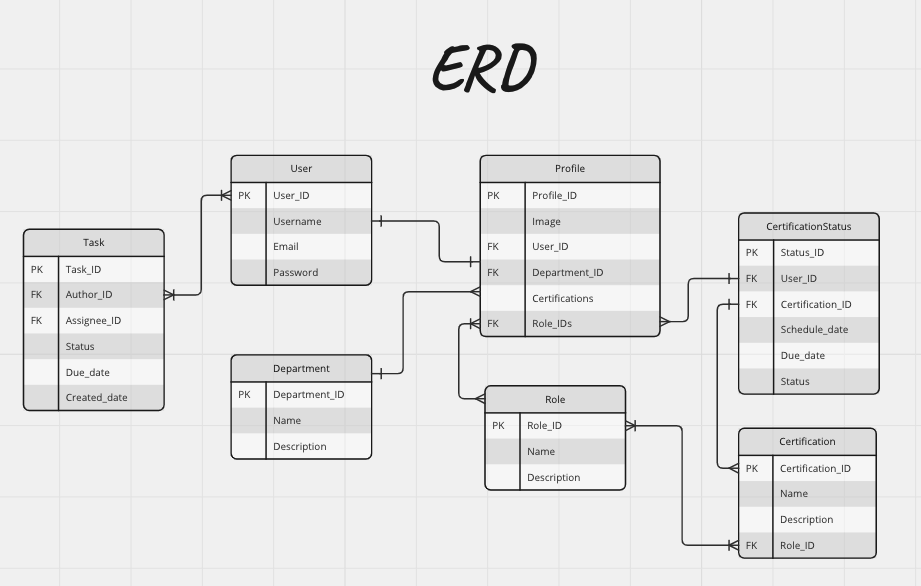
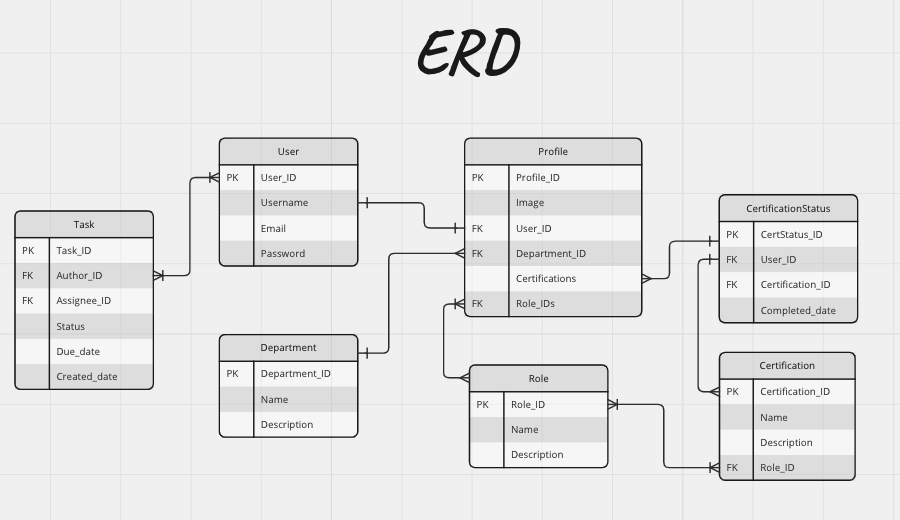
deleted status from model

diff --git a/training/templates/training/dashboard.html b/training/templates/training/dashboard.html
@@ -49,21 +49,20 @@
                             </div>
                             {%endif%}
                             {% if cert.id %}
-                                <a href="{% url 'training-statusCertification-detail' cert.id %}" class="d-flex justify-content-center align-items-center text-{% if cert.status == 'Completed' or cert.status == 'Scheduled' %}success{% elif cert.status == 'About To Expired' %}warning{% else %}danger{% endif %}">
+                                <a href="{% url 'training-statusCertification-detail' cert.id %}" class="d-flex justify-content-center align-items-center text-dark">
                                 
-                                {% if cert.status == 'Completed' %}
-                                
+                                    {% now "Y-m-d" as current_datetime %}
+                                    {% if cert.completed_date|date:"Y-m-d" and current_datetime <= cert.completed_date|date:"Y-m-d"  %}
+                                    {{cert.completed_date|date:'n/j/Y'}}
+                                    {% endif %}
                                     {% if cert.expiration_date %}
                                         <p class="text-warning">{{ cert.expiration_date|timeuntil }}</p>
                                         
                                     {% else %}
-                                        <p>{{cert.completed_date|date:'n/j/Y'}}</p>
-                                    {% endif %}
-                                {% else %}
                                     <div data-toggle="tooltip" data-placement="right" title="{% if cert.certification.scheduled_date %}Scheduled: {{ cert.certification.scheduled_date|date:'n/j' }}{% else %}Not Scheduled{% endif %}">
-                                        <p>{{ cert.status }}</p>
+                                        <p>{{ cert.completed_date|date:'n/j/Y' }}</p>
                                     </div>
-                                {% endif %}
+                                    {% endif %}
                                 </a>
                             {% endif %}
                         </td>

diff --git a/training/templates/training/home.html b/training/templates/training/home.html
@@ -17,10 +17,17 @@
 
 
         {% for certificate, form in formswithcert %}
-        <div id="accordion" class="mb-3 card {% if certificate.status == 'Completed' %}bg-success-light{% endif %}">
+        <div id="accordion" class="mb-3 card">
             <div class="card-header" id="headingOne">
                 <button  class="btn" data-toggle="collapse" data-target="#collapse{{ certificate.id }}" aria-expanded="true" aria-controls="collapseOne" style="font-size: 22px;">{{ certificate.certification.name }}
-                    <span class="badge badge-secondary">{{ certificate.status }}</span>
+                    <span class="badge badge-secondary">
+                        {% now "Y-m-d" as current_datetime %}
+                        {% if certificate.scheduled_date and current_datetime <= certificate.scheduled_date|date:"Y-m-d"  %}
+                        {{ certificate.scheduled_date|date:"Y-m-d" }}
+                        {% else %}
+                        {{ certificate.expiration_date|date:"Y-m-d" }}
+                        {% endif %}
+                    </span>
                 </button>
             </div>
             <div id="collapse{{ certificate.id }}" class="collapse" aria-labelledby="headingOne" data-parent="#accordion">

diff --git a/training/templates/training/all_trainings.html b/training/templates/training/all_trainings.html
@@ -17,7 +17,7 @@
 
 
         {% for certificate in certificates %}
-        <div id="accordion" class="mb-3 card {% if certificate.status == 'Completed' %}bg-success-light{% endif %}">
+        <div id="accordion" class="mb-3 card {% if certificate.expiration_date > now %}bg-success-light{% endif %}">
             <div class="card-header d-flex justify-content-between" id="headingOne">
                 <a class="text-dark" href="{% url 'training-certification-detail' certificate.id %}" >
                     <h5>

diff --git a/users/models.py b/users/models.py
@@ -47,9 +47,19 @@ class Profile(models.Model):
         return self.certifications.all()
     
     # wtire a function that returns the percentage of certifications completed
+    
     def get_certifications_percentage(self):
-        percentage = round(self.certificationstatus_set.filter(status='Completed').count() / (self.certifications.count() or 1) * 100)
-        return percentage if percentage != 0 else 0
+        # today = timezone.now().date()
+        # completed_certifications = 0
+        # # for certification in self.certifications.all():
+        # #     certification_status = self.certificationstatus_set.filter(certification=certification).first()
+        # #     certExp = certification_status.expiration_date()
+        # #     if certification_status and certExp >= today:
+        # #         completed_certifications += 1
+        # # total_certifications = self.certifications.count()
+        # # percentage = round(completed_certifications / (total_certifications or 1) * 100)
+        # return percentage if percentage != 0 else 0
+        return 0
 
     # function that returns all certification status
     def get_certification_status(self, certification):
@@ -58,7 +68,14 @@ class Profile(models.Model):
 
     # write a function that tells you if the user has all the certifications in status 'completed'
     def has_all_certifications_completed(self):
-        return self.certificationstatus_set.filter(status='Completed').count() == self.certifications.count()
+        # today = timezone.now().date()
+        # for certification in self.certifications.all():
+        #     certification_status = self.certificationstatus_set.filter(certification=certification).first()
+        #     if certification_status is None:
+        #         return False
+        #     if certification.exp_months and certification_status.completed_date + timezone.timedelta(days=certification.exp_months * 30) < today:
+        #         return False
+        return True
     
     # function that returns true if user birthday is today or timeuntil if is not today
     def birthday_today(self):

diff --git a/training/models.py b/training/models.py
@@ -24,15 +24,18 @@ class Certification(models.Model):
     def __str__(self):
         return f"{self.name}"
     
-    # profiles with this cert and their status
-    def get_incomplete_certification_statuses(self):
-        return CertificationStatus.objects.filter(certification=self, status__in=['To be Scheduled', 'Scheduled', 'Expired', 'About To Expired'])
+    # profiles with this cert 
+    def get_incomplete_certification_profiles(self):
+        today = timezone.now().date()
+        return Profile.objects.filter(certificationstatus__certification=self, 
+                                      certificationstatus__completed_date__isnull=True) \
+                              .exclude(certificationstatus__completed_date__gt=today) \
+                              .exclude(certificationstatus__expiration_date__gt=today)
 
 
 class CertificationStatus(models.Model):
     profile = models.ForeignKey(Profile, on_delete=models.CASCADE)
     certification = models.ForeignKey(Certification, on_delete=models.CASCADE)
-    status = models.CharField(max_length=50, choices=[('To be Scheduled', 'To be Scheduled'),('Scheduled', 'Scheduled'), ('Expired', 'Expired'), ('About To Expired', 'About To Expired'), ('Completed', 'Completed')], default='To be Scheduled')
     completed_date = models.DateField(null=True, blank=True)
     
 
@@ -60,7 +63,7 @@ class CertificationStatus(models.Model):
         user_email = self.profile.user.email
 
         subject = f'Schedule Updated: {self.certification.name} was scheduled'
-        message = f'Your certificate {self.certification.name} status is {self.status}. New training scheduled on {timezone.localtime(self.certification.scheduled_date)}.'
+        message = f'Your certificate {self.certification.name} is due. New training scheduled on {timezone.localtime(self.certification.scheduled_date)}.'
 
         try:
             send_mail(subject, message, email_user, [user_email], auth_user=email_user, auth_password=email_password)

diff --git a/training/views.py b/training/views.py
@@ -184,7 +184,6 @@ def send_reminder_email(request, certification_id):
     certStatuses = certification.get_incomplete_certification_statuses()
     for certStatus in certStatuses:
         certStatus.send_schedule_notification()
-        certStatus.status = 'Scheduled'
         certStatus.save()
     messages.success(request, f'Reminder emails have been sent for {certification.name} certificate!')
 
@@ -274,9 +273,7 @@ def upload_file(request):
                     # if completion_date is "R" make it empty and the status "To be Scheduled"
                     if completion_date == "R":
                         completion_date = None
-                        status = "To be Scheduled"
-                    else:
-                        status = "Completed"
+                    
                     if pd.notna(completion_date) or completion_date == None:  # Check if completion_date is not NaN
                         try:
                             # Retrieve the profile object using the username
@@ -295,13 +292,11 @@ def upload_file(request):
                             profile=profile,
                             certification=certification,
                             defaults={
-                                'status': status,
                                 'completed_date': completion_date
                             }
                         )
 
                         if not created:
-                            certification_status.status = status
                             certification_status.completed_date = completion_date
                             certification_status.save()
                         print(f'CertificationStatus object created for {profile} and {certification}')

diff --git a/tasks/tests.py b/tasks/tests.py
@@ -2,45 +2,6 @@ from django.test import TestCase
 from .models import Task
 
 # Create your tests here.
-# Create tests for tasks views
-def test_task_list_view(self):
-    response = self.client.get('/tasks/')
-    self.assertEqual(response.status_code, 200)
-    self.assertContains(response, 'Tasks')
-    self.assertTemplateUsed(response, 'tasks/task_list.html')
 
-def test_task_detail_view(self):
-    response = self.client.get('/tasks/1/')
-    no_response = self.client.get('/tasks/100000/')
-    self.assertEqual(response.status_code, 200)
-    self.assertEqual(no_response.status_code, 404)
-    self.assertContains(response, 'Task')
-    self.assertTemplateUsed(response, 'tasks/task_detail.html')
-
-def test_task_create_view(self):
-    response = self.client.post('/tasks/new/', {
-        'assigned_to': 1,
-        'title': 'New task',
-        'description': 'New task description',
-        'priority': 'Low',
-        'due_date': '2021-12-12'
-    })
-    self.assertEqual(response.status_code, 302)
-    self.assertEqual(Task.objects.last().title, 'New task')
-    self.assertEqual(Task.objects.last().description, 'New task description')
-    self.assertEqual(Task.objects.last().priority, 'Low')
-    self.assertEqual(Task.objects.last().due_date, '2021-12-12')
-
-def test_task_update_view(self):
-    response = self.client.post('/tasks/1/update/', {
-        'status': 'Completed'
-    })
-    self.assertEqual(response.status_code, 302)
-    self.assertEqual(Task.objects.get(id=1).status, 'Completed')
-
-def test_task_delete_view(self):
-    response = self.client.post('/tasks/1/delete/')
-    self.assertEqual(response.status_code, 302)
-    self.assertEqual(Task.objects.filter(id=1).count(), 0)
 
 

diff --git a/training/migrations/0009_remove_certificationstatus_status_and_more.py b/training/migrations/0009_remove_certificationstatus_status_and_more.py
@@ -1,0 +1,22 @@
+# Generated by Django 5.0.3 on 2024-03-26 04:19
+
+from django.db import migrations, models
+
+
+class Migration(migrations.Migration):
+
+    dependencies = [
+        ('training', '0008_alter_certification_scheduled_date_and_more'),
+    ]
+
+    operations = [
+        migrations.RemoveField(
+            model_name='certificationstatus',
+            name='status',
+        ),
+        migrations.AlterField(
+            model_name='certificationstatus',
+            name='completed_date',
+            field=models.DateField(blank=True, null=True),
+        ),
+    ]

diff --git a/training/forms.py b/training/forms.py
@@ -7,7 +7,7 @@ class StatusUpdateForm(forms.ModelForm):
 
     class Meta:
         model = CertificationStatus
-        fields = ['status', 'completed_date']
+        fields = ['completed_date']
 
 class UploadFileForm(forms.Form):
     file = forms.FileField()
